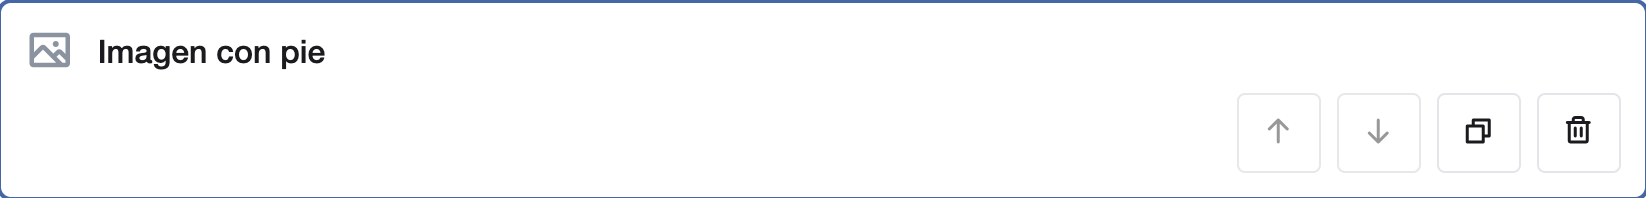
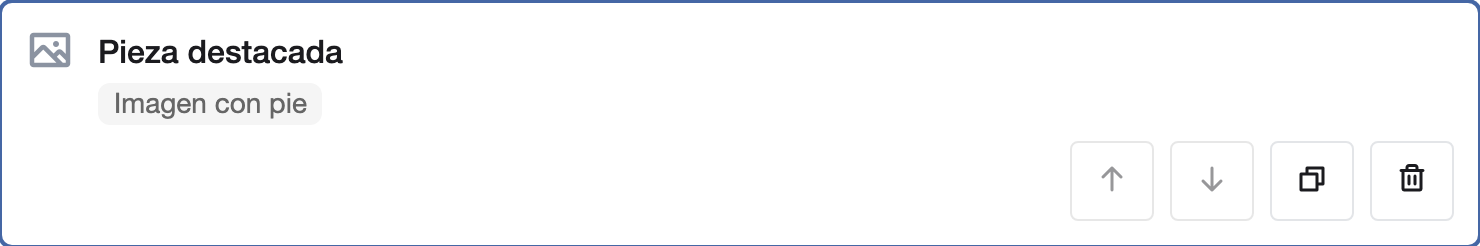
docs(user-guide): el editor ocupa todo el ancho de la ventana
La guía del editor del portal explica dónde queda el panel según el ancho y
regenera sus capturas.

diff --git a/docs/user-guide/diffusion-portal/select-block.md b/docs/user-guide/diffusion-portal/select-block.md
@@ -3,6 +3,9 @@
 Para cambiar un bloque, primero lo seleccionas. Sus opciones se abren en el panel de la derecha. Puedes seleccionarlo
 en las dos vistas del editor: **Lienzo**, la vista con que se abre, y **Visual**.
 
+El editor ocupa todo el ancho de la ventana. Con 1366 píxeles de ancho o más, el panel queda a la derecha de la página
+y no tapa nada; en una ventana más estrecha se abre encima de la derecha de la página.
+
 ## En el lienzo
 
 1. Abre la página en el editor ([Antes de empezar](index.md#antes-de-empezar)). El lienzo muestra cada bloque como una
@@ -12,7 +15,7 @@ en las dos vistas del editor: **Lienzo**, la vista con que se abre, y **Visual**
    bloque.
 4. La ficha seleccionada queda resaltada, para que sepas qué bloque estás cambiando.
 
-    ![La ficha del bloque Imagen con pie seleccionado en el lienzo, resaltada, con los botones de subir, bajar, duplicar y eliminar.](../../assets/screenshots/es/diffusion-portal/select-block/block-selected.png){ width="823" }
+    ![La ficha del bloque Imagen con pie seleccionado en el lienzo, resaltada, con los botones de subir, bajar, duplicar y eliminar.](../../assets/screenshots/es/diffusion-portal/select-block/block-selected.png){ width="740" }
 
 Con el teclado, lleva el foco a la ficha con la tecla Tab y pulsa Intro.
 
@@ -24,7 +27,7 @@ Un bloque que acabas de añadir con **Añadir bloque** queda ya seleccionado.
 2. Pulsa sobre el bloque, en cualquier punto. Un bloque sin contenido se ve como una franja con borde de
    puntos, y también responde.
 
-    ![Vista Visual: la franja fina de una Imagen con pie sin contenido, seleccionada y con su barra de acciones.](../../assets/screenshots/es/diffusion-portal/select-block/visual-view.png){ width="728" }
+    ![Vista Visual: un bloque de Texto enriquecido seleccionado, resaltado y con su barra de acciones.](../../assets/screenshots/es/diffusion-portal/select-block/visual-view.png){ width="728" }
 
 3. Como en el lienzo, el panel muestra «Cargando propiedades…» y después las opciones. El bloque queda resaltado.
 

diff --git a/docs/user-guide/diffusion-portal/index.md b/docs/user-guide/diffusion-portal/index.md
@@ -30,7 +30,7 @@ Para editar el portal necesitas una cuenta con permiso de administración del po
 
 2. Pulsa el título de una página para abrir el **Editor de página del portal**.
 
-    ![Editor de página del portal, sin bloques.](../../assets/screenshots/es/diffusion-portal/index/page-editor.png){ width="736" }
+    ![Editor de página del portal, sin bloques.](../../assets/screenshots/es/diffusion-portal/index/page-editor.png){ width="738" }
 
 Para ver una página sin abrir su editor, pasa el ratón por su tarjeta y pulsa **Más acciones** y **Vista previa**: se
 abre en otra pestaña.
